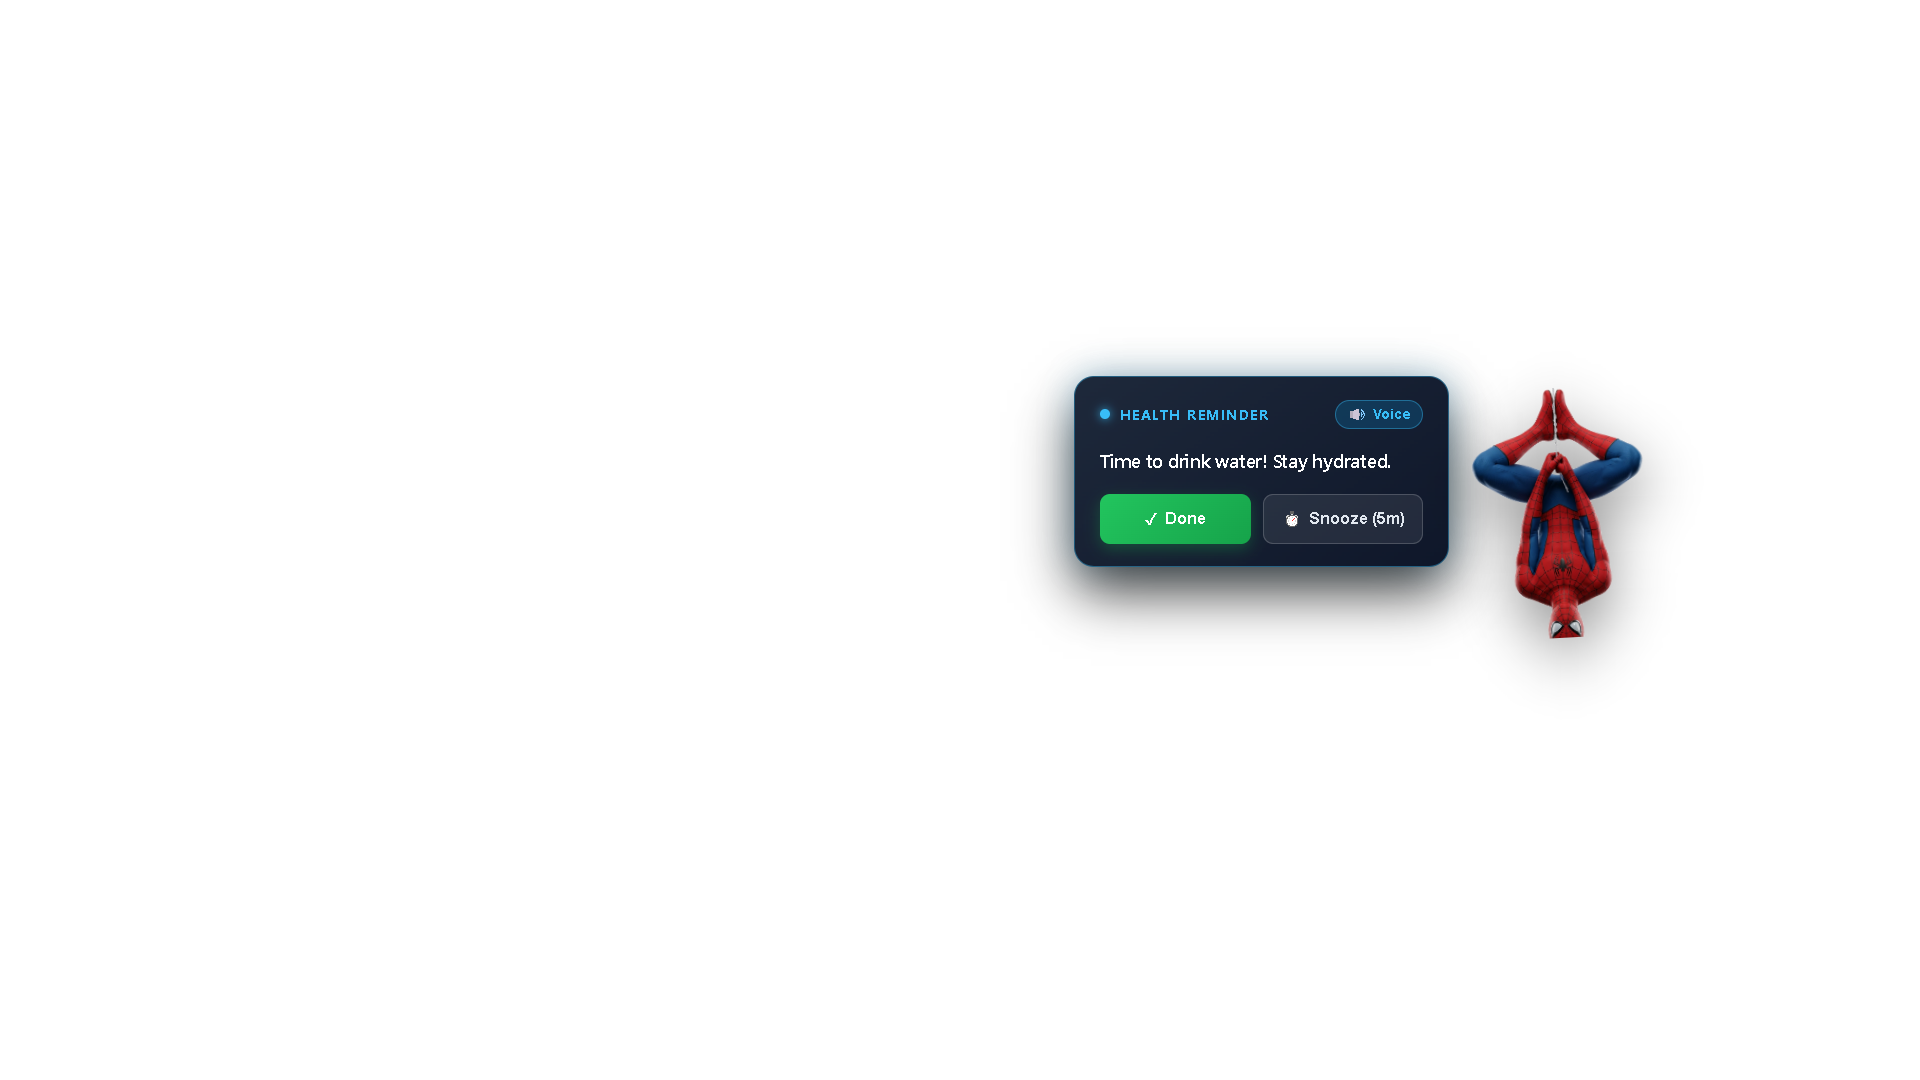
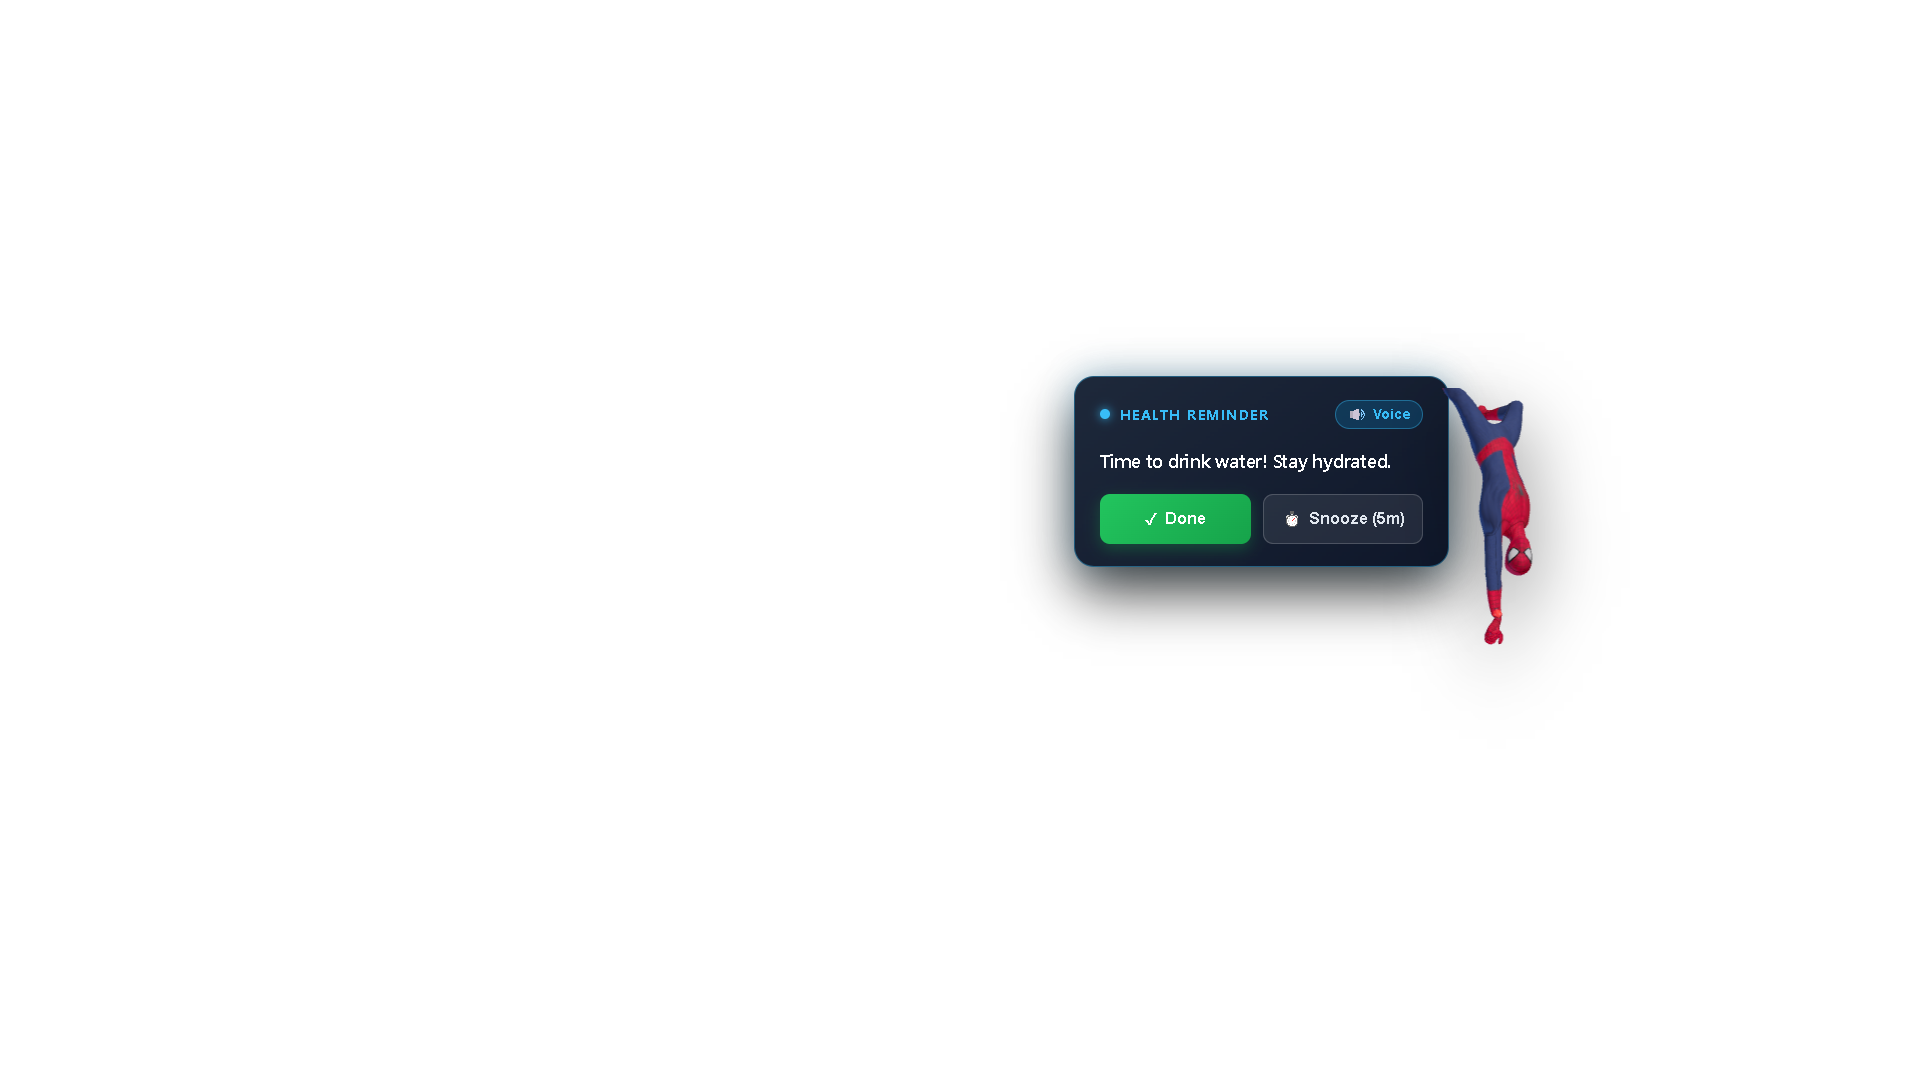
feat: integrate real-time Three.js 3D Spider-Man GLB model with skeletal animations and thick disorganized multi-strand web

Changed region(s): [[0.75, 0.3667, 0.875, 0.6111]]

diff --git a/src/overlay/Character.tsx b/src/overlay/Character.tsx
@@ -1,5 +1,6 @@
-import React, { useState, useEffect, useRef } from 'react';
+import React, { useState } from 'react';
 import { AnimationPhase } from './types';
+import { Model3DViewer } from './Model3DViewer';
 
 interface CharacterProps {
   size: { width: number; height: number };
@@ -11,8 +12,10 @@ interface CharacterProps {
   onClick?: () => void;
 }
 
-type CharacterMediaType = 'video' | 'image' | 'svg';
-
+/**
+ * Character renders the 3D Spider-Man model using Model3DViewer (Three.js WebGL)
+ * with automatic fallback to high-resolution PNG if WebGL is unavailable.
+ */
 export const Character: React.FC<CharacterProps> = ({
   size,
   pivot,
@@ -22,185 +25,72 @@ export const Character: React.FC<CharacterProps> = ({
   phase = 'IDLE',
   onClick,
 }) => {
-  const [mediaType, setMediaType] = useState<CharacterMediaType | null>(null);
-  const videoRef = useRef<HTMLVideoElement | null>(null);
+  const [use3DFallback, setUse3DFallback] = useState(false);
 
-  // Detect available character assets with fallback priority:
-  // 1. character.webm (alpha channel video)
-  // 2. character.png (transparent image)
-  // 3. procedural SVG (neutral placeholder)
-  useEffect(() => {
-    let isCancelled = false;
+  // If 3D model loads and renders cleanly:
+  if (!use3DFallback) {
+    return (
+      <div
+        style={{
+          position: 'absolute',
+          left: 0,
+          top: 0,
+          width: size.width,
+          height: size.height,
+          transform: `translate(${-pivot.x * size.width}px, ${-pivot.y * size.height}px)`,
+          pointerEvents: 'auto',
+          cursor: onClick ? 'pointer' : 'default',
+        }}
+        onClick={onClick}
+      >
+        <Model3DViewer
+          width={size.width}
+          height={size.height}
+          angleDeg={angleDeg}
+          scale={scale}
+          shadowIntensity={shadowIntensity}
+          isPlaying={phase === 'DESCENDING' || phase === 'SWAYING'}
+          onFallback={() => {
+            console.log('[Character] Falling back to 2D high-res character image.');
+            setUse3DFallback(true);
+          }}
+        />
+      </div>
+    );
+  }
 
-    async function probeAssets() {
-      // Step 1: Probe character.webm
-      try {
-        console.log('[Character R6] Probing for transparent video: assets/character.webm...');
-        const videoProbe = document.createElement('video');
-        videoProbe.src = '../character.webm';
-        videoProbe.muted = true;
-        videoProbe.preload = 'auto';
-
-        const canPlay = await new Promise<boolean>((resolve) => {
-          videoProbe.onloadeddata = () => resolve(true);
-          videoProbe.onerror = () => {
-            // Also test without ../
-            const fallbackProbe = document.createElement('video');
-            fallbackProbe.src = 'character.webm';
-            fallbackProbe.onloadeddata = () => resolve(true);
-            fallbackProbe.onerror = () => resolve(false);
-          };
-          // Timeout after 1200ms
-          setTimeout(() => resolve(false), 1200);
-        });
-
-        if (!isCancelled && canPlay) {
-          console.log('[Character R6] Successfully loaded alpha-channel video: assets/character.webm!');
-          setMediaType('video');
-          return;
-        }
-      } catch (err) {
-        console.warn('[Character R6] Error probing character.webm:', err);
-      }
-
-      // Step 2: Fall back to character.png
-      try {
-        console.log('[Character R6] assets/character.webm unavailable. Probing assets/character.png...');
-        const imgProbe = new Image();
-        imgProbe.src = '../character.png';
-
-        const imgLoaded = await new Promise<boolean>((resolve) => {
-          imgProbe.onload = () => resolve(true);
-          imgProbe.onerror = () => {
-            const fallbackImg = new Image();
-            fallbackImg.src = 'character.png';
-            fallbackImg.onload = () => resolve(true);
-            fallbackImg.onerror = () => resolve(false);
-          };
-          setTimeout(() => resolve(false), 800);
-        });
-
-        if (!isCancelled && imgLoaded) {
-          console.log('[Character R6] Successfully loaded fallback image: assets/character.png!');
-          setMediaType('image');
-          return;
-        }
-      } catch (err) {
-        console.warn('[Character R6] Error probing character.png:', err);
-      }
-
-      // Step 3: Procedural SVG placeholder
-      if (!isCancelled) {
-        console.log('[Character R6] Using neutral procedural SVG placeholder shape.');
-        setMediaType('svg');
-      }
-    }
-
-    probeAssets();
-
-    return () => {
-      isCancelled = true;
-    };
-  }, []);
-
-  // Manage video playback according to animation phase
-  useEffect(() => {
-    if (mediaType === 'video' && videoRef.current) {
-      if (phase === 'DESCENDING' || phase === 'SWAYING') {
-        videoRef.current.currentTime = 0;
-        videoRef.current.play().catch((e) => console.warn('[Character R6] Video play error:', e));
-      } else if (phase === 'IDLE' || phase === 'EXITING') {
-        videoRef.current.pause();
-      }
-    }
-  }, [phase, mediaType]);
-
+  // 2D Image Fallback
   const shadowBlur = Math.round(shadowIntensity * 16);
   const shadowAlpha = (shadowIntensity * 0.45).toFixed(2);
 
-  const containerStyle: React.CSSProperties = {
-    position: 'absolute',
-    left: 0,
-    top: 0,
-    width: size.width,
-    height: size.height,
-    transformOrigin: `${pivot.x * 100}% ${pivot.y * 100}%`,
-    transform: `translate(${-pivot.x * size.width}px, ${-pivot.y * size.height}px) rotate(${angleDeg}deg) scale(${scale})`,
-    cursor: onClick ? 'pointer' : 'default',
-    userSelect: 'none',
-    pointerEvents: 'auto',
-    filter: `drop-shadow(0px ${shadowBlur}px ${shadowBlur * 1.5}px rgba(0, 0, 0, ${shadowAlpha}))`,
-    transition: 'filter 0.1s linear',
-  };
-
   return (
-    <div style={containerStyle} onClick={onClick}>
-      {mediaType === 'video' && (
-        <video
-          ref={videoRef}
-          src="../character.webm"
-          autoPlay
-          loop
-          muted
-          playsInline
-          style={{
-            width: '100%',
-            height: '100%',
-            objectFit: 'contain',
-            background: 'transparent',
-          }}
-        />
-      )}
-
-      {mediaType === 'image' && (
-        <img
-          src="../character.png"
-          alt="Character"
-          style={{
-            width: '100%',
-            height: '100%',
-            objectFit: 'contain',
-            background: 'transparent',
-          }}
-        />
-      )}
-
-      {mediaType === 'svg' && (
-        /* Neutral upside-down hanging character placeholder (no copyrighted artwork) */
-        <svg
-          width={size.width}
-          height={size.height}
-          viewBox="0 0 64 64"
-          fill="none"
-          xmlns="http://www.w3.org/2000/svg"
-        >
-          {/* Thread grip ring at top */}
-          <circle cx="32" cy="4" r="2.5" stroke="#e2e8f0" strokeWidth="1.5" fill="none" />
-
-          {/* Upside-down legs holding the thread */}
-          <path d="M26 6 Q30 14 32 18" stroke="#334155" strokeWidth="2.5" strokeLinecap="round" />
-          <path d="M38 6 Q34 14 32 18" stroke="#334155" strokeWidth="2.5" strokeLinecap="round" />
-          <path d="M22 10 Q14 16 12 26" stroke="#334155" strokeWidth="2.2" strokeLinecap="round" />
-          <path d="M42 10 Q50 16 52 26" stroke="#334155" strokeWidth="2.2" strokeLinecap="round" />
-          <path d="M20 20 Q8 28 6 40" stroke="#334155" strokeWidth="2.2" strokeLinecap="round" />
-          <path d="M44 20 Q56 28 58 40" stroke="#334155" strokeWidth="2.2" strokeLinecap="round" />
-
-          {/* Main rounded body (upper part of upside-down pose) */}
-          <ellipse cx="32" cy="28" rx="14" ry="16" fill="#1e293b" />
-          <ellipse cx="32" cy="26" rx="10" ry="12" fill="#334155" opacity="0.6" />
-
-          {/* Head hanging upside down at the bottom */}
-          <circle cx="32" cy="48" r="8" fill="#0f172a" />
-
-          {/* Cute neutral eyes */}
-          <circle cx="29" cy="50" r="1.5" fill="#f8fafc" />
-          <circle cx="35" cy="50" r="1.5" fill="#f8fafc" />
-
-          {/* Lower front arms */}
-          <path d="M24 46 Q18 54 22 60" stroke="#334155" strokeWidth="2" strokeLinecap="round" />
-          <path d="M40 46 Q46 54 42 60" stroke="#334155" strokeWidth="2" strokeLinecap="round" />
-        </svg>
-      )}
+    <div
+      style={{
+        position: 'absolute',
+        left: 0,
+        top: 0,
+        width: size.width,
+        height: size.height,
+        transformOrigin: `${pivot.x * 100}% ${pivot.y * 100}%`,
+        transform: `translate(${-pivot.x * size.width}px, ${-pivot.y * size.height}px) rotate(${angleDeg}deg) scale(${scale})`,
+        cursor: onClick ? 'pointer' : 'default',
+        userSelect: 'none',
+        pointerEvents: 'auto',
+        filter: `drop-shadow(0px ${shadowBlur}px ${shadowBlur * 1.5}px rgba(0, 0, 0, ${shadowAlpha}))`,
+        transition: 'filter 0.1s linear',
+      }}
+      onClick={onClick}
+    >
+      <img
+        src="../character.png"
+        alt="Character"
+        style={{
+          width: '100%',
+          height: '100%',
+          objectFit: 'contain',
+          display: 'block',
+        }}
+      />
     </div>
   );
 };

diff --git a/src/overlay/config.ts b/src/overlay/config.ts
@@ -39,7 +39,7 @@ export const MOTION_CONFIG: MotionConfig = {
     descentDepthPercent: 0.36,         // descends to ~36% screen height
     threadWidth: 2.0,                  // clean thin web line
     threadColor: 'rgba(240, 244, 250, 0.9)',
-    characterSize: { width: 160, height: 200 },
+    characterSize: { width: 220, height: 280 },
     characterPivot: { x: 0.5, y: 0.0 }, // anchored at top/feet of upside down Spider-Man
   },
   timing: {
